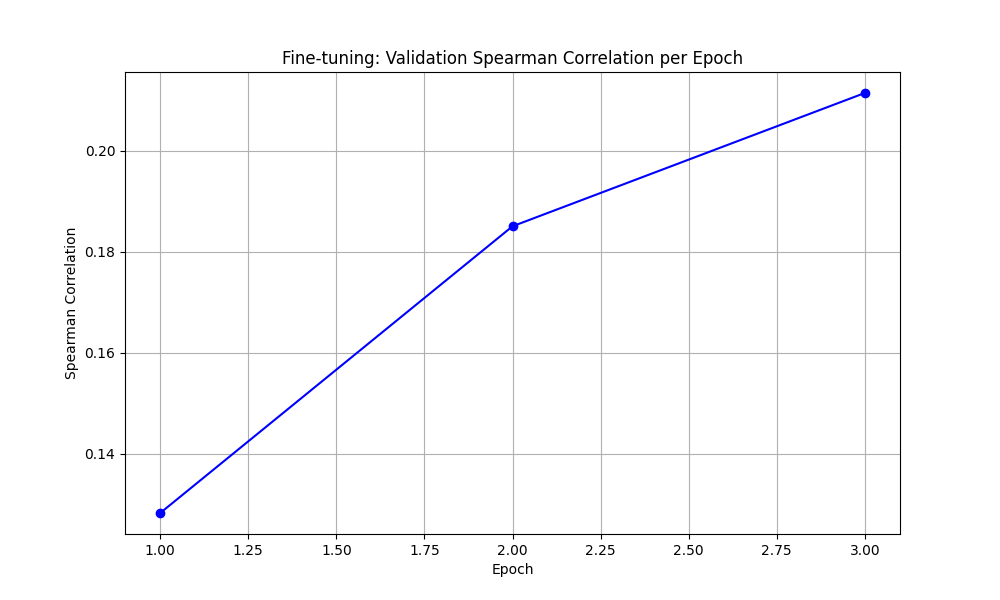
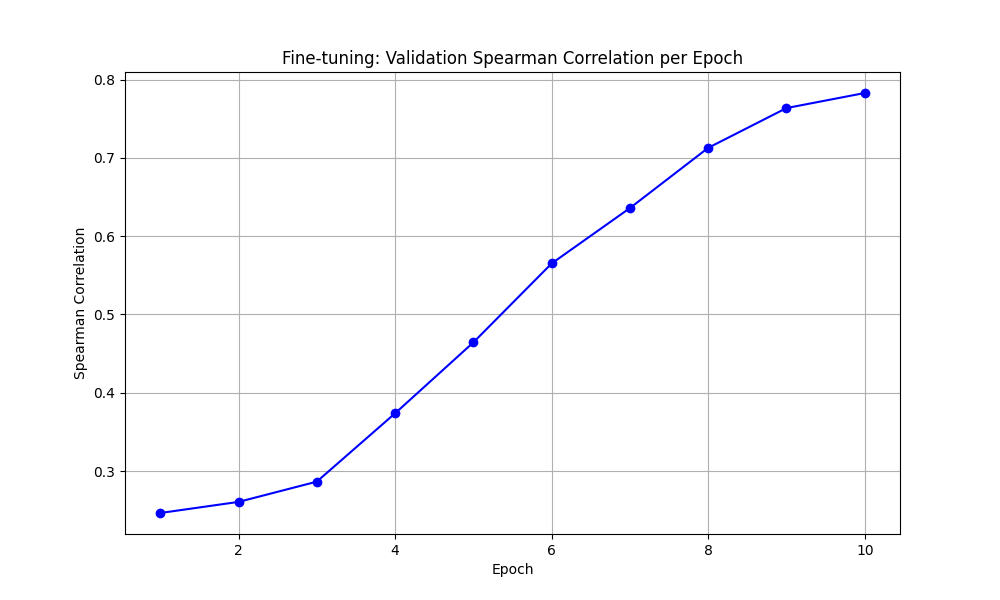
I hope you're happy Purvs

diff --git a/main.py b/main.py
@@ -16,47 +16,104 @@ app = FastAPI(title="Political Promise Fact-Checker", version="2.0")
 # Setup Pathlib
 BASE_DIR = Path(__file__).parent
 HISTORY_PATH = BASE_DIR / "data" / "processed" / "gold_database.csv"
-MODEL_SAVE_PATH = BASE_DIR / "models" / "paraphrase-multilingual-MiniLM-L12-v2-local"
+BASE_MODEL_SAVE_PATH = BASE_DIR / "models" / "paraphrase-multilingual-MiniLM-L12-v2-local"
 FINE_TUNED_MODEL_PATH = BASE_DIR / "models" / "finetuned-politicheck-multilingual"
 
 # Singleton-like loading to prevent multiple loads
-model = None
+model_base = None
+model_finetuned = None
 history = None
-history_embeddings = None
+history_embeddings_base = None
+history_embeddings_finetuned = None
 
-def get_model():
-    global model
-    if model is None:
-        # Priority 1: Fine-tuned Model
+def get_models():
+    global model_base, model_finetuned
+    if model_base is None:
+        if BASE_MODEL_SAVE_PATH.exists():
+            print(f"Loading Base Semantic Engine from LOCAL cache: {BASE_MODEL_SAVE_PATH}")
+            model_base = SentenceTransformer(str(BASE_MODEL_SAVE_PATH))
+        else:
+            print("Downloading and Caching Semantic Engine...")
+            model_base = SentenceTransformer('paraphrase-multilingual-MiniLM-L12-v2')
+            os.makedirs(BASE_MODEL_SAVE_PATH.parent, exist_ok=True)
+            model_base.save(str(BASE_MODEL_SAVE_PATH))
+            print(f"Model saved to {BASE_MODEL_SAVE_PATH}")
+            
+    if model_finetuned is None:
         if FINE_TUNED_MODEL_PATH.exists():
             print(f"Loading FINE-TUNED Semantic Engine: {FINE_TUNED_MODEL_PATH}")
-            model = SentenceTransformer(str(FINE_TUNED_MODEL_PATH))
-        # Priority 2: Local Cache of Base Model
-        elif MODEL_SAVE_PATH.exists():
-            print(f"Loading Base Semantic Engine from LOCAL cache: {MODEL_SAVE_PATH}")
-            model = SentenceTransformer(str(MODEL_SAVE_PATH))
-        # Priority 3: Download from HuggingFace
+            model_finetuned = SentenceTransformer(str(FINE_TUNED_MODEL_PATH))
         else:
-            print("Downloading and Caching Base Semantic Engine...")
-            model = SentenceTransformer('paraphrase-multilingual-MiniLM-L12-v2')
-            os.makedirs(MODEL_SAVE_PATH.parent, exist_ok=True)
-            model.save(str(MODEL_SAVE_PATH))
-            print(f"Model saved to {MODEL_SAVE_PATH}")
-    return model
+            model_finetuned = model_base
 
 @app.on_event("startup")
 async def startup_event():
-    global history, history_embeddings
-    get_model()
+    global history, history_embeddings_base, history_embeddings_finetuned
+    get_models()
     
     if HISTORY_PATH.exists():
         history = pd.read_csv(str(HISTORY_PATH))
-        print(f"Indexing {len(history)} historical records...")
-        # Pre-index for performance
-        history_embeddings = model.encode(history['original_text'].astype(str).tolist(), convert_to_tensor=True)
-        print("Indexing Complete.")
+        print(f"Indexing {len(history)} historical records into dual vector spaces...")
+        text_list = history['original_text'].astype(str).tolist()
+        history_embeddings_base = model_base.encode(text_list, convert_to_tensor=True)
+        history_embeddings_finetuned = model_finetuned.encode(text_list, convert_to_tensor=True)
+        print("Dual Indexing Complete.")
     else:
         print("WARNING: History database not found.")
+        
+import re
+
+def contains_hinglish(text):
+    """Detect if text contains romanized Hindi words mixed with English."""
+    # Pure Devanagari is already handled well by the multilingual model
+    if re.search(r'[\u0900-\u097F]', text):
+        return False
+    # Common Hinglish patterns: words with aa, ee, oo, waa, dhi, etc.
+    hinglish_patterns = [
+        r'\b\w*aad\w*\b', r'\b\w*waad\w*\b', r'\b\w*aat\w*\b',
+        r'\b\w*dhi\b', r'\bham\b', r'\bhum\b', r'\bsab\b',
+        r'\bkaam\b', r'\bdesh\b', r'\bsarkar\b', r'\byojana\b',
+        r'\bvikas\b', r'\bkisan\b', r'\bgareeb\b', r'\brozgar\b',
+        r'\bsuraksha\b', r'\bswachh\b', r'\bshiksha\b',
+    ]
+    for pattern in hinglish_patterns:
+        if re.search(pattern, text, re.IGNORECASE):
+            return True
+    # Fallback: use langdetect
+    try:
+        from langdetect import detect
+        lang = detect(text)
+        if lang == 'hi':
+            return True
+    except:
+        pass
+    return False
+
+async def normalize_hinglish(text):
+    """Use Groq LLM to convert Hinglish text to clean English."""
+    try:
+        from groq import AsyncGroq
+        api_key = os.environ.get("GROQ_API_KEY")
+        if not api_key:
+            return text
+        client = AsyncGroq(api_key=api_key)
+        response = await client.chat.completions.create(
+            model="llama-3.3-70b-versatile",
+            messages=[
+                {"role": "system", "content": "You are a translator. Convert the following text to pure formal English. If it contains any Hindi words written in Roman script (Hinglish), translate those words to English. Keep the sentence structure and meaning identical. Output ONLY the translated sentence, nothing else."},
+                {"role": "user", "content": text}
+            ],
+            temperature=0.0,
+            max_tokens=200,
+        )
+        normalized = response.choices[0].message.content.strip()
+        # Remove quotes if the LLM wrapped the output
+        normalized = normalized.strip('"').strip("'")
+        print(f"[Hinglish Normalizer] '{text}' -> '{normalized}'")
+        return normalized
+    except Exception as e:
+        print(f"[Hinglish Normalizer] Failed: {e}")
+        return text
 
 class PromiseInput(BaseModel):
     text: str
@@ -68,9 +125,6 @@ SEMANTIC_TO_VERDICT = {
     "Highly Likely": "Likely Fulfilled",
     "Partial": "Partially Fulfilled",
     "Unlikely": "Unlikely to be Fulfilled",
-    "Low Confidence Highly Likely": "Likely Fulfilled (Low Confidence)",
-    "Low Confidence Partial": "Partially Fulfilled (Low Confidence)",
-    "Low Confidence Unlikely": "Unlikely to be Fulfilled (Low Confidence)",
     "Indeterminate": "Cannot Determine",
 }
 
@@ -99,66 +153,40 @@ async def predict_outcome(input_data: PromiseInput):
     if history is None:
         return {"error": "History database not found. Run rebuild_gold.py first."}
 
-    # Offload CPU-bound task (model.encode) to a thread
-    query_embedding = await asyncio.to_thread(model.encode, input_data.text, convert_to_tensor=True)
+    # Step 1: Normalize Hinglish to English via LLM if detected
+    encoding_text = input_data.text
+    hinglish_detected = contains_hinglish(input_data.text)
+    if hinglish_detected:
+        encoding_text = await normalize_hinglish(input_data.text)
+
+    # Step 2: Dual-Model Ensembling with the (possibly normalized) text
+    query_embedding_base = await asyncio.to_thread(model_base.encode, encoding_text, convert_to_tensor=True)
+    query_embedding_finetuned = await asyncio.to_thread(model_finetuned.encode, encoding_text, convert_to_tensor=True)
     
-    cos_scores = util.cos_sim(query_embedding, history_embeddings)[0]
-    # Diversity-aware retrieval: Get more candidates than needed
-    top_candidates = torch.topk(cos_scores, k=min(10, len(history)))
+    cos_scores_base = util.cos_sim(query_embedding_base, history_embeddings_base)[0]
+    cos_scores_finetuned = util.cos_sim(query_embedding_finetuned, history_embeddings_finetuned)[0]
+    
+    top_results_base = torch.topk(cos_scores_base, k=3)
+    top_results_finetuned = torch.topk(cos_scores_finetuned, k=3)
+    
+    top_score_base_val = top_results_base.values[0].item()
+    top_score_finetuned_val = top_results_finetuned.values[0].item()
+    
+    # The model with the highest similarity score "understood" the text better
+    used_base_model = top_score_base_val > top_score_finetuned_val
+    top_results = top_results_base if used_base_model else top_results_finetuned
 
     matches = []
-    seen_labels = set()
-    
-    # Always include the absolute best match
-    best_idx = top_candidates.indices[0].item()
-    best_score = float(top_candidates.values[0].item())
-    best_row = history.iloc[best_idx]
-    best_label_str = label_map[int(best_row['label'])]
-    
-    matches.append({
-        "historical_text": str(best_row['original_text']),
-        "outcome": best_label_str,
-        "similarity": round(best_score, 4),
-        "year": int(best_row['year']) if 'year' in best_row else 0
-    })
-    seen_labels.add(best_label_str)
-
-    # Diversity-aware retrieval for subsequent matches
-    # Prefer matches with DIFFERENT labels if they are within a reasonable similarity range
-    for i in range(1, len(top_candidates.indices)):
-        if len(matches) >= 3:
-            break
-            
-        idx = top_candidates.indices[i].item()
-        score = float(top_candidates.values[i].item())
+    for i in range(len(top_results.indices)):
+        idx = top_results.indices[i].item()
+        score = top_results.values[i].item()
         row = history.iloc[idx]
-        label_str = label_map[int(row['label'])]
-        
-        # Heuristic: If label is new AND score is within 10% of best, OR we just need to fill slots
-        if (label_str not in seen_labels and (best_score - score) < 0.10) or (len(matches) < 3 and i > 5):
-            matches.append({
-                "historical_text": str(row['original_text']),
-                "outcome": label_str,
-                "similarity": round(score, 4),
-                "year": int(row['year']) if 'year' in row else 0
-            })
-            seen_labels.add(label_str)
-
-    # If we still don't have 3 matches (rare), fill with next best
-    if len(matches) < 3:
-        for i in range(1, len(top_candidates.indices)):
-            if len(matches) >= 3: break
-            idx = top_candidates.indices[i].item()
-            score = float(top_candidates.values[i].item())
-            row = history.iloc[idx]
-            label_str = label_map[int(row['label'])]
-            if not any(m['historical_text'] == str(row['original_text']) for m in matches):
-                matches.append({
-                    "historical_text": str(row['original_text']),
-                    "outcome": label_str,
-                    "similarity": round(score, 4),
-                    "year": int(row['year']) if 'year' in row else 0
-                })
+        matches.append({
+            "historical_text": str(row['original_text']),
+            "outcome": label_map[int(row['label'])],
+            "similarity": round(float(score), 4),
+            "year": int(row['year']) if 'year' in row else 0
+        })
 
     top_score = matches[0]['similarity']
     base_outcome = matches[0]['outcome']
@@ -175,36 +203,24 @@ async def predict_outcome(input_data: PromiseInput):
     else:
         semantic_forecast = "Indeterminate"
         semantic_reasoning = "No relevant historical precedent found below 0.50 similarity."
+        
+    router_note = "(Routed to multilingual base model)" if used_base_model else "(Routed to fine-tuned English model)"
+    if hinglish_detected:
+        router_note = f"(Hinglish normalized: '{encoding_text}') {router_note}"
+    semantic_reasoning = f"{router_note} {semantic_reasoning}"
 
     llm_result = None
     if input_data.use_llm:
         from nlp_engine.llm_reviewer import review_promise_async
-        try:
-            # Set a timeout for the LLM review to prevent hanging
-            llm_result = await asyncio.wait_for(
-                review_promise_async(
-                    promise=input_data.text,
-                    semantic_forecast=semantic_forecast,
-                    confidence=top_score,
-                    historical_evidence=matches
-                ),
-                timeout=15.0
-            )
-        except asyncio.TimeoutError:
-            print("LLM Review timed out.")
-            llm_result = {"error": "Timeout", "llm_verdict": "Unavailable", "llm_reasoning": "Skeptic layer timed out."}
-        except Exception as e:
-            print(f"LLM Review error: {e}")
-            llm_result = {"error": str(e), "llm_verdict": "Unavailable", "llm_reasoning": f"Skeptic layer error: {e}"}
+        llm_result = await review_promise_async(
+            promise=input_data.text,
+            semantic_forecast=semantic_forecast,
+            confidence=top_score,
+            historical_evidence=matches
+        )
 
-    # Determine verdict_base based on top_score thresholds
-    if top_score >= 0.65:
-        verdict_base = base_outcome
-    elif top_score >= 0.50:
-        verdict_base = "Low Confidence " + base_outcome
-    else:
-        verdict_base = "Indeterminate"
-
+    # Use base_outcome only if confidence is above 0.50; otherwise use "Indeterminate"
+    verdict_base = base_outcome if top_score >= 0.50 else "Indeterminate"
     verdict_info = resolve_final_verdict(verdict_base, llm_result, top_score)
 
     return {

diff --git a/test_sim.py b/test_sim.py
@@ -1,0 +1,14 @@
+from sentence_transformers import SentenceTransformer, util
+
+model = SentenceTransformer('paraphrase-multilingual-MiniLM-L12-v2')
+
+query = "we'll give a firm reply to aatankwaad"
+target1 = "Deal with cross border terrorism with a firm hand."
+target2 = "आतंकवाद का कड़ाई से मुकाबला करेंगे"  # Hindi translation
+
+query_emb = model.encode(query, convert_to_tensor=True)
+t1_emb = model.encode(target1, convert_to_tensor=True)
+t2_emb = model.encode(target2, convert_to_tensor=True)
+
+print("Similarity to English target:", util.cos_sim(query_emb, t1_emb).item())
+print("Similarity to Hindi target:", util.cos_sim(query_emb, t2_emb).item())

diff --git a/test_translate.py b/test_translate.py
@@ -1,0 +1,10 @@
+from deep_translator import GoogleTranslator
+
+test_str1 = "we will give a firm reply to terrorists"
+test_str2 = "we will give a firm reply to aatankwaadis"
+test_str3 = "हम आतंकवादियों को कड़ा जवाब देंगे"
+
+translator = GoogleTranslator(source='auto', target='en')
+print("English:", translator.translate(test_str1))
+print("Hinglish:", translator.translate(test_str2))
+print("Hindi:", translator.translate(test_str3))

diff --git a/finetune_model.py b/finetune_model.py
@@ -73,7 +73,7 @@ def run_finetuning():
     evaluator = evaluation.EmbeddingSimilarityEvaluator(val_sentences1, val_sentences2, val_scores, name=eval_name)
     
     # 6. Fine-tune
-    num_epochs = 3 
+    num_epochs = 10
     os.makedirs('data/output/metrics', exist_ok=True)
     
     epoch_scores = []

diff --git a/test_langdetect.py b/test_langdetect.py
@@ -1,0 +1,4 @@
+from langdetect import detect
+
+test_str2 = "we will give a firm reply to aatankwaadis"
+print("Langdetect:", detect(test_str2))
